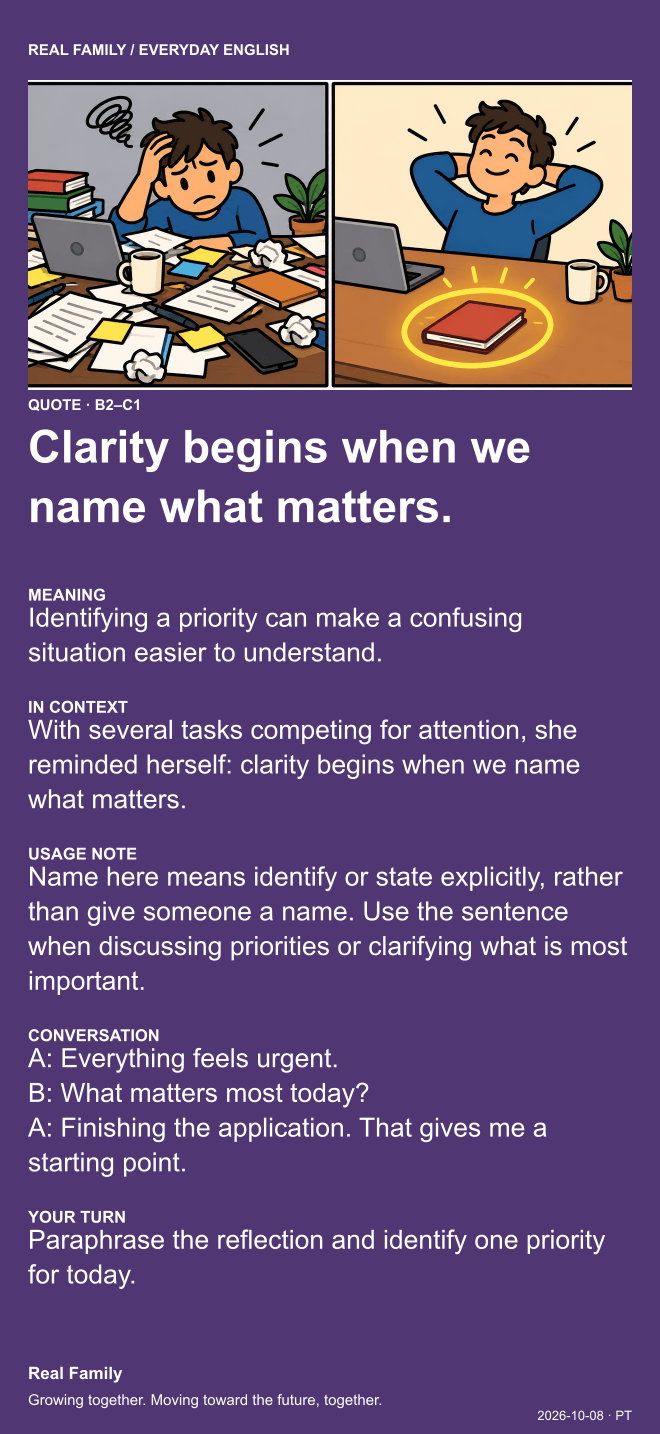
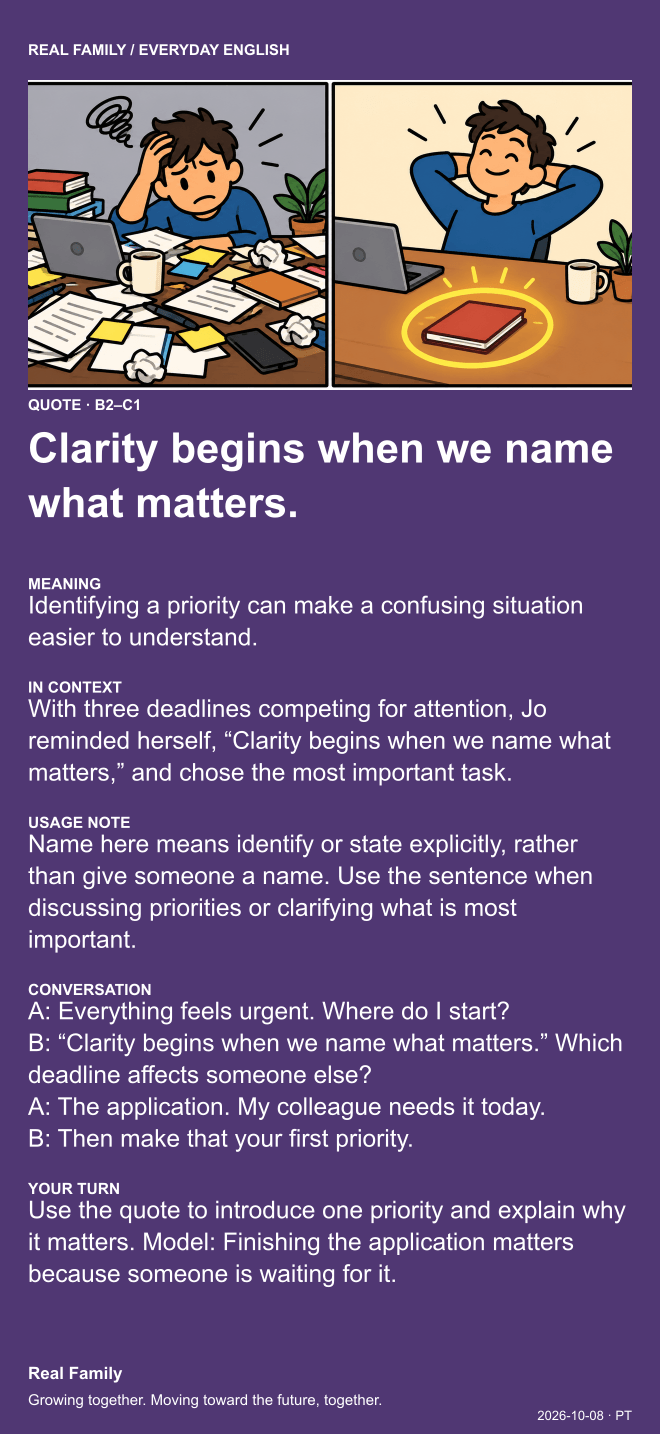
Demonstrate each quote directly in examples and connected dialogues

diff --git a/scripts/generate_english.py b/scripts/generate_english.py
@@ -70,7 +70,7 @@ CRITICAL SCHEMA: image is ONLY a category STRING: "vocabulary", "phrasal", "idio
 The two phrasal lessons MUST teach verb + particle constructions (for example a verb followed by up/out/off), not a single verb or noun. The grammar lesson MUST teach an advanced grammatical contrast with a correct rule, not vocabulary. Match each title to its declared category. C2 lessons require real pragmatic or semantic distinctions in notes and exercises. Do not reuse a familiar saying as an original quote.
 Counts: vocabulary 2, phrasal 2, idiom 2, life 1, grammar 1, quote 1, small-talk 1. Levels B2 4, C1 4, C2 2.
 Teach native-like collocations and pragmatic nuance. C2 must teach register, implied meaning or precise semantic contrasts, not relabel basic material.
-Quote must be ORIGINAL, no author attribution. Quote usage notes must explain metaphor, register, context or pragmatic meaning only; never mention Real Family, our brand, authorship, or promotional claims. Each lesson 110-170 words total, maximum 190; title under 55 characters. All have a clear definition, natural example, specific usage warning, 4 alternating A:/B: dialogue lines, and a concrete exercise with a short model answer. Small-talk has SIX alternating A:/B: lines, with follow-up questions and natural replies. Use actual newline characters in conversation.
+Quote must be ORIGINAL, no author attribution. Quote example must naturally quote the exact title in a concrete situation. Its four-turn conversation must quote that same title once and show a specific response or action that applies its meaning. Exercises must practice applying that quote, with a concrete model answer. Quote usage notes must explain metaphor, register, context or pragmatic meaning only; never mention Real Family, our brand, authorship, or promotional claims. Each lesson 110-170 words total, maximum 190; title under 55 characters. All have a clear definition, natural example, specific usage warning, 4 alternating A:/B: dialogue lines, and a concrete exercise with a short model answer. Small-talk has SIX alternating A:/B: lines, with follow-up questions and natural replies. Use actual newline characters in conversation.
 Avoid repeated titles, synonyms with the same teaching point, paraphrases of past meanings, and repeated grammar rules. Use the complete past curriculum below as excluded teaching points.
 scene describes a simple flat 2D comic that clearly demonstrates THIS meaning, NOT its category. No generic category pictures. Return background (#hex), description (what visual event explains the lesson), characters (1-3), props (0-5).
 characters: x (140..500), y (65..105), scale (0.85,1,1.15), shirt (#hex), flip (boolean), face (happy,skeptical,worried,calm,neutral,curious,determined), pose (up,reach,cross,think,point,down).

diff --git a/scripts/release_english.py b/scripts/release_english.py
@@ -10,7 +10,10 @@ def validate(root,edition):
  assert len({l['id'] for l in lessons})==10
  seen=set();pictures=set()
  for l in lessons:
-  if l['image']=='quote':assert 'real family' not in l.get('notes','').casefold(),'Quote usage notes must focus on language, without branding'
+  if l['image']=='quote':
+   assert 'real family' not in l.get('notes','').casefold(),'Quote usage notes must focus on language, without branding'
+   assert l['title'] in l.get('example','') and l['title'] in l.get('conversation',''),'Quote examples and conversation must demonstrate the exact quote'
+   assert len(l.get('conversation','').replace('\\n','\n').splitlines())>=4,'Quote needs a connected four-turn conversation'
   if l['image']=='small-talk':
    turns=l['conversation'].replace('\\n','\n').splitlines();assert len(turns)>=6 and all(t.startswith(('A:','B:')[i%2]) for i,t in enumerate(turns)),'Small talk needs at least six alternating turns'
   if 'level' in l:assert l['level'] in {'B2','C1','C2'},'Invalid CEFR level'
